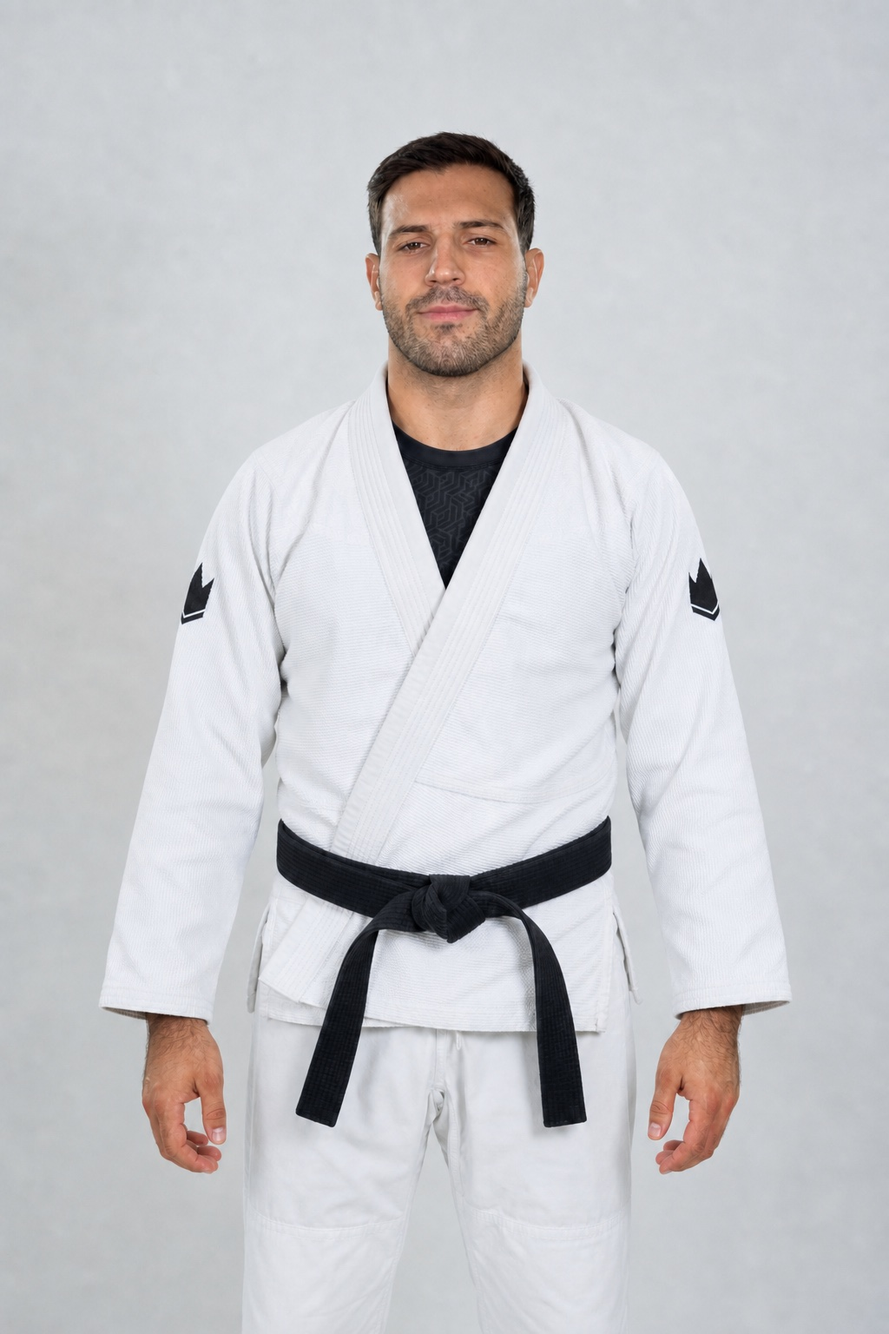
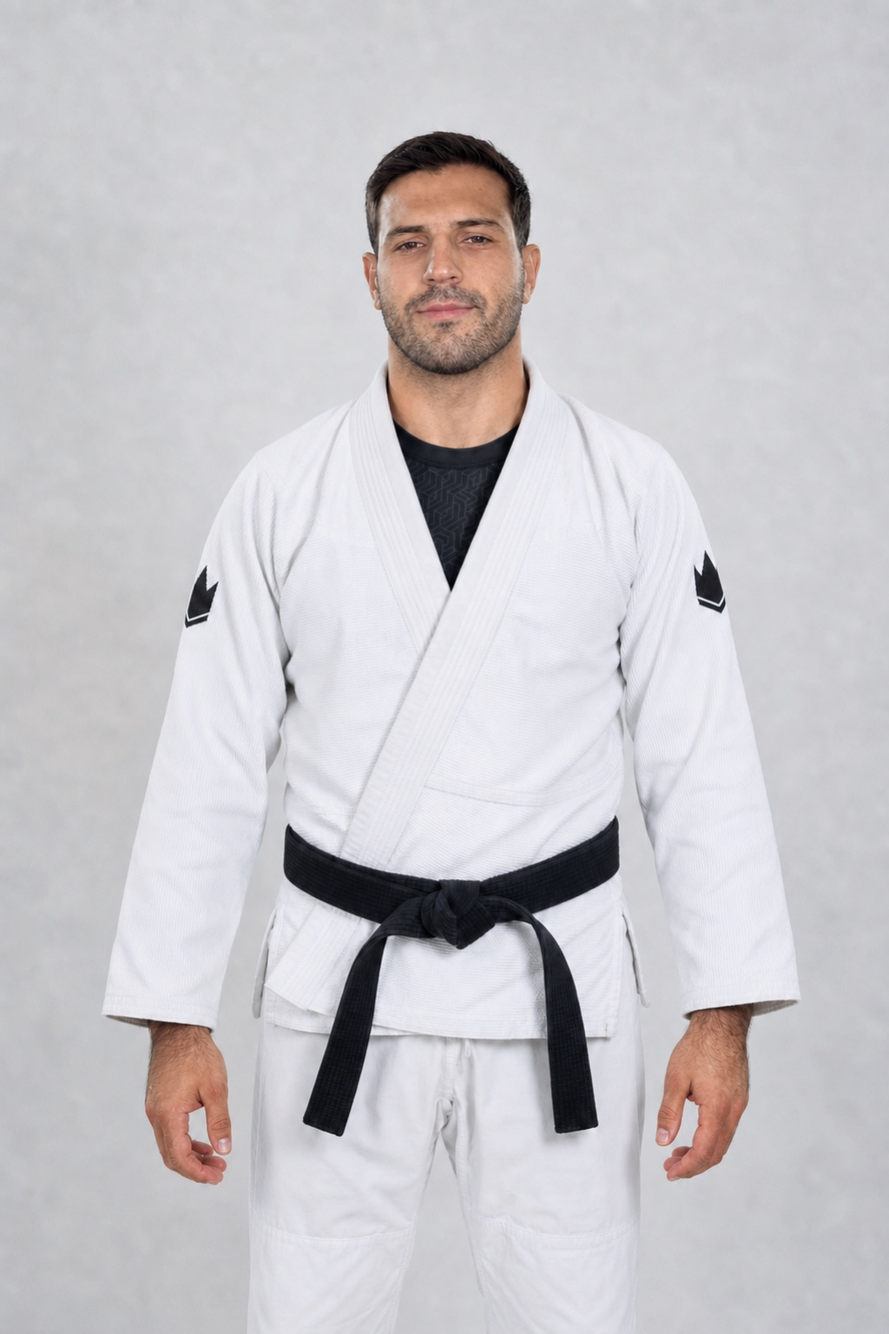
Use approved Vasco portrait

diff --git a/equipa.html b/equipa.html
@@ -9,7 +9,7 @@
 <link href="https://fonts.googleapis.com" rel="preconnect"/>
 <link crossorigin="" href="https://fonts.gstatic.com" rel="preconnect"/>
 <link href="https://fonts.googleapis.com/css2?family=Inter:wght@400;500;600;700&amp;family=Oswald:wght@500;600;700&amp;display=swap" rel="stylesheet"/>
-<link href="css/style.css?v=20260816-1" rel="stylesheet"/>
+<link href="css/style.css?v=20260816-2" rel="stylesheet"/>
 <meta content="Conheça os professores e atletas que lideram os programas da Focus Jiu-Jitsu Headquarters." data-content-en="Meet the instructors and athletes who lead the programs at Focus Jiu-Jitsu Headquarters." data-content-pt="Conheça os professores e atletas que lideram os programas da Focus Jiu-Jitsu Headquarters." name="description"/>
 <title data-en="Team | Focus Jiu-Jitsu Headquarters" data-pt="Equipa | Focus Jiu-Jitsu Headquarters">Equipa | Focus Jiu-Jitsu Headquarters</title>
 </head>
@@ -126,7 +126,7 @@
 <div class="leadership-grid">
 <article class="leadership-card reveal">
 <div class="leadership-photo">
-<img alt="Manoel Neto com kimono Ultralight preto" data-alt-en="Manoel Neto wearing the black Ultralight gi" data-alt-pt="Manoel Neto com kimono Ultralight preto" loading="eager" src="assets/images/team/manoel-neto.jpg?v=20260816-1" height="1800" width="1200"/>
+<img alt="Manoel Neto com kimono Ultralight preto" data-alt-en="Manoel Neto wearing the black Ultralight gi" data-alt-pt="Manoel Neto com kimono Ultralight preto" loading="eager" src="assets/images/team/manoel-neto.jpg?v=20260816-2" height="1800" width="1200"/>
 </div>
 <div class="leadership-content">
 <p class="leadership-title leadership-title-founder" data-en="FOUNDER OF FOCUS JIU-JITSU" data-pt="FUNDADOR DA FOCUS JIU-JITSU">FUNDADOR DA FOCUS JIU-JITSU</p>
@@ -136,7 +136,7 @@
 </article>
 <article class="leadership-card reveal">
 <div class="leadership-photo">
-<img alt="Pedro Paquito Ramalho" loading="eager" onerror="this.onerror=null;this.src='assets/images/team/team-placeholder.svg';this.classList.add('is-placeholder');" src="assets/images/team/pedro-paquito-ramalho.jpg?v=20260816-1" height="1800" width="1200"/>
+<img alt="Pedro Paquito Ramalho" loading="eager" onerror="this.onerror=null;this.src='assets/images/team/team-placeholder.svg';this.classList.add('is-placeholder');" src="assets/images/team/pedro-paquito-ramalho.jpg?v=20260816-2" height="1800" width="1200"/>
 </div>
 <div class="leadership-content">
 <p class="leadership-title" data-en="HEAD COACH" data-pt="HEAD COACH">HEAD COACH</p>
@@ -154,7 +154,7 @@
 <!-- FAIXAS PRETAS -->
 <article class="coach-card reveal" data-belt="black">
 <div class="coach-card-photo">
-<img alt="Luana Oliveira" loading="lazy" onerror="this.onerror=null;this.src='assets/images/team/team-placeholder.svg';this.classList.add('is-placeholder');" src="assets/images/team/luana-oliveira.jpg?v=20260816-1" height="1800" width="1200"/>
+<img alt="Luana Oliveira" loading="lazy" onerror="this.onerror=null;this.src='assets/images/team/team-placeholder.svg';this.classList.add('is-placeholder');" src="assets/images/team/luana-oliveira.jpg?v=20260816-2" height="1800" width="1200"/>
 </div>
 <div class="coach-card-content">
 <p class="coach-rank" data-en="Black belt" data-pt="Faixa preta">Faixa preta</p>
@@ -163,7 +163,7 @@
 </article>
 <article class="coach-card reveal" data-belt="black">
 <div class="coach-card-photo">
-<img alt="Henrique Soares" loading="lazy" onerror="this.onerror=null;this.src='assets/images/team/team-placeholder.svg';this.classList.add('is-placeholder');" src="assets/images/team/henrique-soares.jpg?v=20260816-1" height="1800" width="1200"/>
+<img alt="Henrique Soares" loading="lazy" onerror="this.onerror=null;this.src='assets/images/team/team-placeholder.svg';this.classList.add('is-placeholder');" src="assets/images/team/henrique-soares.jpg?v=20260816-2" height="1800" width="1200"/>
 </div>
 <div class="coach-card-content">
 <p class="coach-rank" data-en="Black belt" data-pt="Faixa preta">Faixa preta</p>
@@ -172,7 +172,7 @@
 </article>
 <article class="coach-card reveal" data-belt="black">
 <div class="coach-card-photo">
-<img alt="Vasco Leal" height="1536" loading="lazy" onerror="this.onerror=null;this.src='assets/images/team/team-placeholder.svg';this.classList.add('is-placeholder');" src="assets/images/team/vasco-leal.jpg?v=20260816-1" width="1024"/>
+<img alt="Vasco Leal" height="1536" loading="lazy" onerror="this.onerror=null;this.src='assets/images/team/team-placeholder.svg';this.classList.add('is-placeholder');" src="assets/images/team/vasco-leal.jpg?v=20260816-2" width="1024"/>
 </div>
 <div class="coach-card-content">
 <p class="coach-rank" data-en="Black belt" data-pt="Faixa preta">Faixa preta</p>
@@ -182,7 +182,7 @@
 <!-- FAIXAS CASTANHAS -->
  <article class="coach-card reveal" data-belt="brown">
 <div class="coach-card-photo">
-<img alt="Francisco Rocha" loading="lazy" onerror="this.onerror=null;this.src='assets/images/team/team-placeholder.svg';this.classList.add('is-placeholder');" src="assets/images/team/francisco-rocha.jpg?v=20260816-1" height="1800" width="1200"/>
+<img alt="Francisco Rocha" loading="lazy" onerror="this.onerror=null;this.src='assets/images/team/team-placeholder.svg';this.classList.add('is-placeholder');" src="assets/images/team/francisco-rocha.jpg?v=20260816-2" height="1800" width="1200"/>
 </div>
 <div class="coach-card-content">
 <p class="coach-rank" data-en="Brown belt" data-pt="Faixa castanha">Faixa castanha</p>
@@ -191,7 +191,7 @@
 </article>
 <article class="coach-card reveal" data-belt="brown">
 <div class="coach-card-photo">
-<img alt="Pedro Zogbi" loading="lazy" onerror="this.onerror=null;this.src='assets/images/team/team-placeholder.svg';this.classList.add('is-placeholder');" src="assets/images/team/pedro-zogbi-2026.jpg?v=20260816-1" height="1800" width="1200"/>
+<img alt="Pedro Zogbi" loading="lazy" onerror="this.onerror=null;this.src='assets/images/team/team-placeholder.svg';this.classList.add('is-placeholder');" src="assets/images/team/pedro-zogbi-2026.jpg?v=20260816-2" height="1800" width="1200"/>
 </div>
 <div class="coach-card-content">
 <p class="coach-rank" data-en="Brown belt" data-pt="Faixa castanha">Faixa castanha</p>
@@ -201,7 +201,7 @@
 
 <article class="coach-card reveal" data-belt="brown">
 <div class="coach-card-photo">
-<img alt="Thallysson Vasconcelos" loading="lazy" onerror="this.onerror=null;this.src='assets/images/team/team-placeholder.svg';this.classList.add('is-placeholder');" src="assets/images/team/thallyson-vasconcelos.jpg?v=20260816-1" height="1800" width="1200"/>
+<img alt="Thallysson Vasconcelos" loading="lazy" onerror="this.onerror=null;this.src='assets/images/team/team-placeholder.svg';this.classList.add('is-placeholder');" src="assets/images/team/thallyson-vasconcelos.jpg?v=20260816-2" height="1800" width="1200"/>
 </div>
 <div class="coach-card-content">
 <p class="coach-rank" data-en="Brown Belt" data-pt="Faixa castanha">Faixa castanha</p>
@@ -212,7 +212,7 @@
 <!-- FAIXAS ROXAS -->
 <article class="coach-card reveal" data-belt="purple">
 <div class="coach-card-photo">
-<img alt="Ricardo Almeida" loading="lazy" onerror="this.onerror=null;this.src='assets/images/team/team-placeholder.svg';this.classList.add('is-placeholder');" src="assets/images/team/ricardo-almeida.jpg?v=20260816-1" height="1800" width="1200"/>
+<img alt="Ricardo Almeida" loading="lazy" onerror="this.onerror=null;this.src='assets/images/team/team-placeholder.svg';this.classList.add('is-placeholder');" src="assets/images/team/ricardo-almeida.jpg?v=20260816-2" height="1800" width="1200"/>
 </div>
 <div class="coach-card-content">
 <p class="coach-rank" data-en="Purple belt" data-pt="Faixa roxa">Faixa roxa</p>
@@ -261,6 +261,6 @@
 <span aria-hidden="true">↗</span>
 <span data-en="Trial class" data-pt="Aula experimental">Aula experimental</span>
 </a>
-<script defer src="js/main.js?v=20260816-1"></script>
+<script defer src="js/main.js?v=20260816-2"></script>
 </body>
 </html>

diff --git a/instalacoes.html b/instalacoes.html
@@ -9,8 +9,8 @@
 <link href="https://fonts.googleapis.com" rel="preconnect"/>
 <link crossorigin="" href="https://fonts.gstatic.com" rel="preconnect"/>
 <link href="https://fonts.googleapis.com/css2?family=Inter:wght@400;500;600;700&amp;family=Oswald:wght@500;600;700&amp;display=swap" rel="stylesheet"/>
-<link href="css/style.css?v=20260816-1" rel="stylesheet"/>
-<link href="css/v54.css?v=20260816-1" rel="stylesheet"/>
+<link href="css/style.css?v=20260816-2" rel="stylesheet"/>
+<link href="css/v54.css?v=20260816-2" rel="stylesheet"/>
 <meta content="Conheça os 2.500 m² da Focus Jiu-Jitsu Headquarters: 1.500 m² de musculação e 1.000 m² de tatami." data-content-en="Discover the 2,500 m² Focus Jiu-Jitsu Headquarters, with 1,500 m² of strength training space and 1,000 m² of mats." data-content-pt="Conheça os 2.500 m² da Focus Jiu-Jitsu Headquarters: 1.500 m² de musculação e 1.000 m² de tatami." name="description"/>
 <title data-en="Facilities | Focus Jiu-Jitsu Headquarters" data-pt="Instalações | Focus Jiu-Jitsu Headquarters">Instalações | Focus Jiu-Jitsu Headquarters</title>
 </head>
@@ -148,7 +148,7 @@
 <section class="facilities-feature facilities-feature-alt section-light">
 <div class="section-shell facilities-feature-grid">
 <figure class="facilities-feature-media reveal">
-<img alt="Área principal de tatami da Focus Jiu-Jitsu Headquarters" data-alt-en="Main mat area at Focus Jiu-Jitsu Headquarters" data-alt-pt="Área principal de tatami da Focus Jiu-Jitsu Headquarters" loading="lazy" src="assets/images/facilities/tatami-main.jpg?v=20260816-1" height="1200" width="1920"/>
+<img alt="Área principal de tatami da Focus Jiu-Jitsu Headquarters" data-alt-en="Main mat area at Focus Jiu-Jitsu Headquarters" data-alt-pt="Área principal de tatami da Focus Jiu-Jitsu Headquarters" loading="lazy" src="assets/images/facilities/tatami-main.jpg?v=20260816-2" height="1200" width="1920"/>
 </figure>
 <div class="facilities-feature-copy reveal">
 <p class="eyebrow" data-en="MAT AREA · 1,000 M²" data-pt="TATAMI · 1.000 M²">TATAMI · 1.000 M²</p>
@@ -166,7 +166,7 @@
 </header>
 <div class="facilities-tour-player reveal">
 <video controls="" playsinline="" poster="assets/images/facilities/gym-panorama-color.jpg" preload="metadata">
-<source src="assets/videos/home.mp4?v=20260816-1" type="video/mp4"/>
+<source src="assets/videos/home.mp4?v=20260816-2" type="video/mp4"/>
 </video>
 <div class="facilities-tour-caption">
 <span data-en="FOCUS JIU-JITSU HQ TOUR" data-pt="TOUR FOCUS JIU-JITSU HQ">TOUR FOCUS JIU-JITSU HQ</span>
@@ -175,7 +175,7 @@
 </div>
 <div class="facilities-gallery-grid">
 <figure class="facilities-gallery-card facilities-gallery-card-wide reveal">
-<img alt="Vista ampla do tatami principal da Focus Jiu-Jitsu Headquarters" class="facilities-gallery-image-tatami" data-alt-en="Wide view of the main mat at Focus Jiu-Jitsu Headquarters" data-alt-pt="Vista ampla do tatami principal da Focus Jiu-Jitsu Headquarters" loading="lazy" src="assets/images/facilities/tatami-gallery-updated.jpg?v=20260816-1" height="864" width="1320"/>
+<img alt="Vista ampla do tatami principal da Focus Jiu-Jitsu Headquarters" class="facilities-gallery-image-tatami" data-alt-en="Wide view of the main mat at Focus Jiu-Jitsu Headquarters" data-alt-pt="Vista ampla do tatami principal da Focus Jiu-Jitsu Headquarters" loading="lazy" src="assets/images/facilities/tatami-gallery-updated.jpg?v=20260816-2" height="864" width="1320"/>
 <figcaption data-en="1,000 m² mat area" data-pt="1.000 m² de tatami">1.000 m² de tatami</figcaption>
 </figure>
 <figure class="facilities-gallery-card reveal">
@@ -183,7 +183,7 @@
 <figcaption data-en="1,500 m² strength area" data-pt="1.500 m² de musculação">1.500 m² de musculação</figcaption>
 </figure>
 <figure class="facilities-gallery-card reveal">
-<img alt="Receção e Pro Shop da Focus Jiu-Jitsu Headquarters" data-alt-en="Reception and Pro Shop at Focus Jiu-Jitsu Headquarters" data-alt-pt="Receção e Pro Shop da Focus Jiu-Jitsu Headquarters" loading="lazy" src="assets/images/facilities/pro-shop.jpg?v=20260816-1" height="1200" width="1600"/>
+<img alt="Receção e Pro Shop da Focus Jiu-Jitsu Headquarters" data-alt-en="Reception and Pro Shop at Focus Jiu-Jitsu Headquarters" data-alt-pt="Receção e Pro Shop da Focus Jiu-Jitsu Headquarters" loading="lazy" src="assets/images/facilities/pro-shop.jpg?v=20260816-2" height="1200" width="1600"/>
 <figcaption data-en="Reception and Pro Shop" data-pt="Receção e Pro Shop">Receção e Pro Shop</figcaption>
 </figure>
 <figure class="facilities-gallery-card facilities-gallery-card-wide reveal">
@@ -232,6 +232,6 @@
 <span aria-hidden="true">↗</span>
 <span data-en="Trial class" data-pt="Aula experimental">Aula experimental</span>
 </a>
-<script defer src="js/main.js?v=20260816-1"></script>
+<script defer src="js/main.js?v=20260816-2"></script>
 </body>
 </html>

diff --git a/adultos.html b/adultos.html
@@ -11,7 +11,7 @@
 <link href="https://fonts.googleapis.com" rel="preconnect"/>
 <link crossorigin="" href="https://fonts.gstatic.com" rel="preconnect"/>
 <link href="https://fonts.googleapis.com/css2?family=Inter:wght@400;500;600;700&amp;family=Oswald:wght@500;600;700&amp;display=swap" rel="stylesheet"/>
-<link href="css/style.css?v=20260816-1" rel="stylesheet"/>
+<link href="css/style.css?v=20260816-2" rel="stylesheet"/>
 </head>
 <body class="internal-page" data-page="programs-adults">
 <a class="skip-link" data-en="Skip to content" data-pt="Saltar para o conteúdo" href="#program-main">Saltar para o conteúdo</a>
@@ -299,7 +299,7 @@
 </div>
 </div>
 </section>
-<section class="program-page-feature section-dark"><div class="section-shell program-page-feature-grid"><div class="program-page-image reveal"><img alt="Turma de Jiu-Jitsu a assistir a uma demonstração do professor" data-alt-en="Jiu-Jitsu class watching an instructor demonstration" data-alt-pt="Turma de Jiu-Jitsu a assistir a uma demonstração do professor" loading="lazy" src="assets/images/program-adults-class.jpg?v=20260816-1" height="1200" width="1600"/></div><div class="program-page-start reveal"><p class="eyebrow" data-en="YOUR FIRST STEP" data-pt="O PRIMEIRO PASSO">O PRIMEIRO PASSO</p><h2 data-en="Start with confidence." data-pt="Começa com confiança.">Começa com confiança.</h2><p data-en="Begin with a free trial class. The team introduces the academy, explains how the classes work and helps you choose the training suited to your level." data-pt="Começa com uma aula experimental gratuita. A equipa apresenta-te o espaço, explica o funcionamento das aulas e ajuda-te a escolher o treino adequado ao teu nível.">Começa com uma aula experimental gratuita. A equipa apresenta-te o espaço, explica o funcionamento das aulas e ajuda-te a escolher o treino adequado ao teu nível.</p><a class="button" data-whatsapp="" href="https://wa.me/351932665662" rel="noopener noreferrer" target="_blank"><span data-en="Book a trial class" data-pt="Marcar aula experimental">Marcar aula experimental</span></a><a class="text-link program-schedule-link" href="horarios.html"><span data-en="View schedule" data-pt="Ver horários">Ver horários</span></a></div></div></section>
+<section class="program-page-feature section-dark"><div class="section-shell program-page-feature-grid"><div class="program-page-image reveal"><img alt="Turma de Jiu-Jitsu a assistir a uma demonstração do professor" data-alt-en="Jiu-Jitsu class watching an instructor demonstration" data-alt-pt="Turma de Jiu-Jitsu a assistir a uma demonstração do professor" loading="lazy" src="assets/images/program-adults-class.jpg?v=20260816-2" height="1200" width="1600"/></div><div class="program-page-start reveal"><p class="eyebrow" data-en="YOUR FIRST STEP" data-pt="O PRIMEIRO PASSO">O PRIMEIRO PASSO</p><h2 data-en="Start with confidence." data-pt="Começa com confiança.">Começa com confiança.</h2><p data-en="Begin with a free trial class. The team introduces the academy, explains how the classes work and helps you choose the training suited to your level." data-pt="Começa com uma aula experimental gratuita. A equipa apresenta-te o espaço, explica o funcionamento das aulas e ajuda-te a escolher o treino adequado ao teu nível.">Começa com uma aula experimental gratuita. A equipa apresenta-te o espaço, explica o funcionamento das aulas e ajuda-te a escolher o treino adequado ao teu nível.</p><a class="button" data-whatsapp="" href="https://wa.me/351932665662" rel="noopener noreferrer" target="_blank"><span data-en="Book a trial class" data-pt="Marcar aula experimental">Marcar aula experimental</span></a><a class="text-link program-schedule-link" href="horarios.html"><span data-en="View schedule" data-pt="Ver horários">Ver horários</span></a></div></div></section>
 </main>
 <footer class="site-footer" id="footer-contact">
 <div class="footer-single-row section-shell">
@@ -339,6 +339,6 @@
 <span aria-hidden="true">↗</span>
 <span data-en="Trial class" data-pt="Aula experimental">Aula experimental</span>
 </a>
-<script defer src="js/main.js?v=20260816-1"></script>
+<script defer src="js/main.js?v=20260816-2"></script>
 </body>
 </html>

diff --git a/kids.html b/kids.html
@@ -11,7 +11,7 @@
 <link href="https://fonts.googleapis.com" rel="preconnect"/>
 <link crossorigin="" href="https://fonts.gstatic.com" rel="preconnect"/>
 <link href="https://fonts.googleapis.com/css2?family=Inter:wght@400;500;600;700&amp;family=Oswald:wght@500;600;700&amp;display=swap" rel="stylesheet"/>
-<link href="css/style.css?v=20260816-1" rel="stylesheet"/>
+<link href="css/style.css?v=20260816-2" rel="stylesheet"/>
 </head>
 <body class="internal-page" data-page="programs-kids">
 <a class="skip-link" data-en="Skip to content" data-pt="Saltar para o conteúdo" href="#program-main">Saltar para o conteúdo</a>
@@ -195,7 +195,7 @@
 </div>
 </div>
 </section>
-<section class="program-page-feature section-dark"><div class="section-shell program-page-feature-grid"><div class="program-page-image reveal"><img alt="Crianças a treinar Jiu-Jitsu no tatami" data-alt-en="Children training Jiu-Jitsu on the mats" data-alt-pt="Crianças a treinar Jiu-Jitsu no tatami" loading="lazy" src="assets/images/program-kids-training.jpg?v=20260816-1" height="1200" width="1600"/></div><div class="program-page-start reveal"><p class="eyebrow" data-en="YOUR FIRST STEP" data-pt="O PRIMEIRO PASSO">O PRIMEIRO PASSO</p><h2 data-en="Start with confidence." data-pt="Começa com confiança.">Começa com confiança.</h2><p data-en="The first trial class is free. The team welcomes the child and family, explains how the class works and supports integration into the group." data-pt="A primeira aula experimental é gratuita. A equipa recebe a criança e a família, apresenta o funcionamento da turma e acompanha a integração no grupo.">A primeira aula experimental é gratuita. A equipa recebe a criança e a família, apresenta o funcionamento da turma e acompanha a integração no grupo.</p><a class="button" data-whatsapp="" href="https://wa.me/351932665662" rel="noopener noreferrer" target="_blank"><span data-en="Book a trial class" data-pt="Marcar aula experimental">Marcar aula experimental</span></a><a class="text-link program-schedule-link" href="horarios.html"><span data-en="View schedule" data-pt="Ver horários">Ver horários</span></a></div></div></section>
+<section class="program-page-feature section-dark"><div class="section-shell program-page-feature-grid"><div class="program-page-image reveal"><img alt="Crianças a treinar Jiu-Jitsu no tatami" data-alt-en="Children training Jiu-Jitsu on the mats" data-alt-pt="Crianças a treinar Jiu-Jitsu no tatami" loading="lazy" src="assets/images/program-kids-training.jpg?v=20260816-2" height="1200" width="1600"/></div><div class="program-page-start reveal"><p class="eyebrow" data-en="YOUR FIRST STEP" data-pt="O PRIMEIRO PASSO">O PRIMEIRO PASSO</p><h2 data-en="Start with confidence." data-pt="Começa com confiança.">Começa com confiança.</h2><p data-en="The first trial class is free. The team welcomes the child and family, explains how the class works and supports integration into the group." data-pt="A primeira aula experimental é gratuita. A equipa recebe a criança e a família, apresenta o funcionamento da turma e acompanha a integração no grupo.">A primeira aula experimental é gratuita. A equipa recebe a criança e a família, apresenta o funcionamento da turma e acompanha a integração no grupo.</p><a class="button" data-whatsapp="" href="https://wa.me/351932665662" rel="noopener noreferrer" target="_blank"><span data-en="Book a trial class" data-pt="Marcar aula experimental">Marcar aula experimental</span></a><a class="text-link program-schedule-link" href="horarios.html"><span data-en="View schedule" data-pt="Ver horários">Ver horários</span></a></div></div></section>
 </main>
 <footer class="site-footer" id="footer-contact">
 <div class="footer-single-row section-shell">
@@ -235,6 +235,6 @@
 <span aria-hidden="true">↗</span>
 <span data-en="Trial class" data-pt="Aula experimental">Aula experimental</span>
 </a>
-<script defer src="js/main.js?v=20260816-1"></script>
+<script defer src="js/main.js?v=20260816-2"></script>
 </body>
 </html>

diff --git a/index.html b/index.html
@@ -14,7 +14,7 @@
       href="https://fonts.googleapis.com/css2?family=Inter:wght@400;500;600;700&amp;family=Oswald:wght@500;600;700&amp;display=swap"
       rel="stylesheet"
     />
-    <link href="css/style.css?v=20260816-1" rel="stylesheet" />
+    <link href="css/style.css?v=20260816-2" rel="stylesheet" />
   </head>
   <body data-page="home">
     <a
@@ -125,10 +125,10 @@
           loop=""
           muted=""
           playsinline=""
-          poster="assets/images/facilities/academy-hero-poster.jpg?v=20260816-1"
+          poster="assets/images/facilities/academy-hero-poster.jpg?v=20260816-2"
           preload="metadata"
         >
-          <source src="assets/videos/academy-hero.mp4?v=20260816-1" type="video/mp4" />
+          <source src="assets/videos/academy-hero.mp4?v=20260816-2" type="video/mp4" />
         </video>
         <div aria-hidden="true" class="hero-overlay"></div>
         <div class="hero-logo">
@@ -231,7 +231,7 @@
               <img
                 alt="Treino de Jiu-Jitsu para adultos" data-alt-en="Jiu-Jitsu training for adults" data-alt-pt="Treino de Jiu-Jitsu para adultos"
                 loading="lazy"
-                src="assets/images/adultos-program.jpg?v=20260816-1" height="1800" width="1200"/>
+                src="assets/images/adultos-program.jpg?v=20260816-2" height="1800" width="1200"/>
             </div>
             <div class="program-audience-overlay"></div>
             <div class="program-audience-content">
@@ -263,7 +263,7 @@
               <img
                 alt="Aula de Jiu-Jitsu para crianças" data-alt-en="Jiu-Jitsu class for children" data-alt-pt="Aula de Jiu-Jitsu para crianças"
                 loading="lazy"
-                src="assets/images/program-kids.jpg?v=20260816-1" height="1800" width="1200"/>
+                src="assets/images/program-kids.jpg?v=20260816-2" height="1800" width="1200"/>
             </div>
             <div class="program-audience-overlay"></div>
             <div class="program-audience-content">
@@ -332,6 +332,6 @@
 <span aria-hidden="true">↗</span>
 <span data-en="Trial class" data-pt="Aula experimental">Aula experimental</span>
 </a>
-    <script defer src="js/main.js?v=20260816-1"></script>
+    <script defer src="js/main.js?v=20260816-2"></script>
   </body>
 </html>

diff --git a/historia-conquistas.html b/historia-conquistas.html
@@ -11,8 +11,8 @@
 <link href="https://fonts.googleapis.com" rel="preconnect"/>
 <link crossorigin="" href="https://fonts.gstatic.com" rel="preconnect"/>
 <link href="https://fonts.googleapis.com/css2?family=Inter:wght@400;500;600;700&amp;family=Oswald:wght@500;600;700&amp;display=swap" rel="stylesheet"/>
-<link href="css/style.css?v=20260816-1" rel="stylesheet"/>
-<link href="css/v54.css?v=20260816-1" rel="stylesheet"/>
+<link href="css/style.css?v=20260816-2" rel="stylesheet"/>
+<link href="css/v54.css?v=20260816-2" rel="stylesheet"/>
 
 <style>
 /* História & Conquistas — layout editorial v3
@@ -783,8 +783,8 @@ Começa em Matosinhos uma nova fase de crescimento, criando uma base mais forte 
 </article>
 
 <article class="history-timeline-card reveal">
-<figure class="history-media-slot history-media-slot-dark history-timeline-card-media" data-placeholder="Retrato · Pedro Paquito Ramalho · assets/images/team/pedro-paquito-ramalho.jpg?v=20260816-1">
-<img alt="Pedro Paquito Ramalho, atleta e professor da Focus Jiu-Jitsu" loading="lazy" src="assets/images/team/pedro-paquito-ramalho.jpg?v=20260816-1" style="object-position: 50% 30%;" onload="this.parentElement.classList.add('has-image')" onerror="this.remove()" height="1800" width="1200"/>
+<figure class="history-media-slot history-media-slot-dark history-timeline-card-media" data-placeholder="Retrato · Pedro Paquito Ramalho · assets/images/team/pedro-paquito-ramalho.jpg?v=20260816-2">
+<img alt="Pedro Paquito Ramalho, atleta e professor da Focus Jiu-Jitsu" loading="lazy" src="assets/images/team/pedro-paquito-ramalho.jpg?v=20260816-2" style="object-position: 50% 30%;" onload="this.parentElement.classList.add('has-image')" onerror="this.remove()" height="1800" width="1200"/>
 </figure>
 <div class="history-timeline-card-copy">
 <div class="history-year">2015</div>
@@ -1089,6 +1089,6 @@ O que começou no Norte de Portugal evoluiu de uma equipa local para uma rede de
 <span data-en="Trial class" data-pt="Aula experimental">Aula experimental</span>
 </a>
 
-<script defer src="js/main.js?v=20260816-1"></script>
+<script defer src="js/main.js?v=20260816-2"></script>
 </body>
 </html>

diff --git a/visitar.html b/visitar.html
@@ -9,7 +9,7 @@
 <link href="https://fonts.googleapis.com" rel="preconnect"/>
 <link crossorigin="" href="https://fonts.gstatic.com" rel="preconnect"/>
 <link href="https://fonts.googleapis.com/css2?family=Inter:wght@400;500;600;700&amp;family=Oswald:wght@500;600;700&amp;display=swap" rel="stylesheet"/>
-<link href="css/style.css?v=20260816-1" rel="stylesheet"/>
+<link href="css/style.css?v=20260816-2" rel="stylesheet"/>
 <meta content="Visite a Focus Jiu-Jitsu Headquarters em Matosinhos Sul e conheça os planos turísticos de treino." data-content-en="Visit Focus Jiu-Jitsu Headquarters in Matosinhos Sul and discover the training options for visitors." data-content-pt="Visite a Focus Jiu-Jitsu Headquarters em Matosinhos Sul e conheça os planos turísticos de treino." name="description"/>
 <title data-en="Visit | Focus Jiu-Jitsu Headquarters" data-pt="Visitar | Focus Jiu-Jitsu Headquarters">Visitar | Focus Jiu-Jitsu Headquarters</title>
 </head>
@@ -222,6 +222,6 @@
 <span aria-hidden="true">↗</span>
 <span data-en="Trial class" data-pt="Aula experimental">Aula experimental</span>
 </a>
-<script defer src="js/main.js?v=20260816-1"></script>
+<script defer src="js/main.js?v=20260816-2"></script>
 </body>
 </html>

diff --git a/produtos.html b/produtos.html
@@ -11,7 +11,7 @@
 <link href="https://fonts.googleapis.com" rel="preconnect"/>
 <link crossorigin="" href="https://fonts.gstatic.com" rel="preconnect"/>
 <link href="https://fonts.googleapis.com/css2?family=Inter:wght@400;500;600;700&amp;family=Oswald:wght@500;600;700&amp;display=swap" rel="stylesheet"/>
-<link href="css/style.css?v=20260816-1" rel="stylesheet"/>
+<link href="css/style.css?v=20260816-2" rel="stylesheet"/>
 <style>
 /* Product galleries are scoped to this page so the remaining site stays unchanged. */
 .product-card[data-product-gallery] .product-image {
@@ -376,7 +376,7 @@
 <span aria-hidden="true">↗</span>
 <span data-en="Trial class" data-pt="Aula experimental">Aula experimental</span>
 </a>
-<script defer src="js/main.js?v=20260816-1"></script>
-<script defer src="js/product-gallery.js?v=20260816-1"></script>
+<script defer src="js/main.js?v=20260816-2"></script>
+<script defer src="js/product-gallery.js?v=20260816-2"></script>
 </body>
 </html>

diff --git a/filiais-netherlands.html b/filiais-netherlands.html
@@ -11,7 +11,7 @@
 <link href="https://fonts.googleapis.com" rel="preconnect"/>
 <link crossorigin="" href="https://fonts.gstatic.com" rel="preconnect"/>
 <link href="https://fonts.googleapis.com/css2?family=Inter:wght@400;500;600;700&amp;family=Oswald:wght@500;600;700&amp;display=swap" rel="stylesheet"/>
-<link href="css/style.css?v=20260816-1" rel="stylesheet"/>
+<link href="css/style.css?v=20260816-2" rel="stylesheet"/>
 </head>
 <body class="internal-page" data-page="locations-netherlands">
 <a class="skip-link" data-en="Skip to content" data-pt="Saltar para o conteúdo" href="#locations-main">Saltar para o conteúdo</a>
@@ -207,6 +207,6 @@
 <span aria-hidden="true">↗</span>
 <span data-en="Trial class" data-pt="Aula experimental">Aula experimental</span>
 </a>
-<script defer src="js/main.js?v=20260816-1"></script>
+<script defer src="js/main.js?v=20260816-2"></script>
 </body>
 </html>

diff --git a/filiais-portugal.html b/filiais-portugal.html
@@ -11,7 +11,7 @@
 <link href="https://fonts.googleapis.com" rel="preconnect"/>
 <link crossorigin="" href="https://fonts.gstatic.com" rel="preconnect"/>
 <link href="https://fonts.googleapis.com/css2?family=Inter:wght@400;500;600;700&amp;family=Oswald:wght@500;600;700&amp;display=swap" rel="stylesheet"/>
-<link href="css/style.css?v=20260816-1" rel="stylesheet"/>
+<link href="css/style.css?v=20260816-2" rel="stylesheet"/>
 </head>
 <body class="internal-page" data-page="locations-portugal">
 <a class="skip-link" data-en="Skip to content" data-pt="Saltar para o conteúdo" href="#locations-main">Saltar para o conteúdo</a>
@@ -253,6 +253,6 @@
 <span aria-hidden="true">↗</span>
 <span data-en="Trial class" data-pt="Aula experimental">Aula experimental</span>
 </a>
-<script defer src="js/main.js?v=20260816-1"></script>
+<script defer src="js/main.js?v=20260816-2"></script>
 </body>
 </html>

diff --git a/filiais-espanha.html b/filiais-espanha.html
@@ -11,7 +11,7 @@
 <link href="https://fonts.googleapis.com" rel="preconnect"/>
 <link crossorigin="" href="https://fonts.gstatic.com" rel="preconnect"/>
 <link href="https://fonts.googleapis.com/css2?family=Inter:wght@400;500;600;700&amp;family=Oswald:wght@500;600;700&amp;display=swap" rel="stylesheet"/>
-<link href="css/style.css?v=20260816-1" rel="stylesheet"/>
+<link href="css/style.css?v=20260816-2" rel="stylesheet"/>
 </head>
 <body class="internal-page" data-page="locations-spain">
 <a class="skip-link" data-en="Skip to content" data-pt="Saltar para o conteúdo" href="#locations-main">Saltar para o conteúdo</a>
@@ -281,6 +281,6 @@
 <span aria-hidden="true">↗</span>
 <span data-en="Trial class" data-pt="Aula experimental">Aula experimental</span>
 </a>
-<script defer src="js/main.js?v=20260816-1"></script>
+<script defer src="js/main.js?v=20260816-2"></script>
 </body>
 </html>

diff --git a/filiais.html b/filiais.html
@@ -11,7 +11,7 @@
 <link href="https://fonts.googleapis.com" rel="preconnect"/>
 <link crossorigin="" href="https://fonts.gstatic.com" rel="preconnect"/>
 <link href="https://fonts.googleapis.com/css2?family=Inter:wght@400;500;600;700&amp;family=Oswald:wght@500;600;700&amp;display=swap" rel="stylesheet"/>
-<link href="css/style.css?v=20260816-1" rel="stylesheet"/>
+<link href="css/style.css?v=20260816-2" rel="stylesheet"/>
 </head>
 <body class="internal-page" data-page="locations">
 <a class="skip-link" data-en="Skip to content" data-pt="Saltar para o conteúdo" href="#locations-main">Saltar para o conteúdo</a>
@@ -178,6 +178,6 @@
 <span aria-hidden="true">↗</span>
 <span data-en="Trial class" data-pt="Aula experimental">Aula experimental</span>
 </a>
-<script defer src="js/main.js?v=20260816-1"></script>
+<script defer src="js/main.js?v=20260816-2"></script>
 </body>
 </html>
